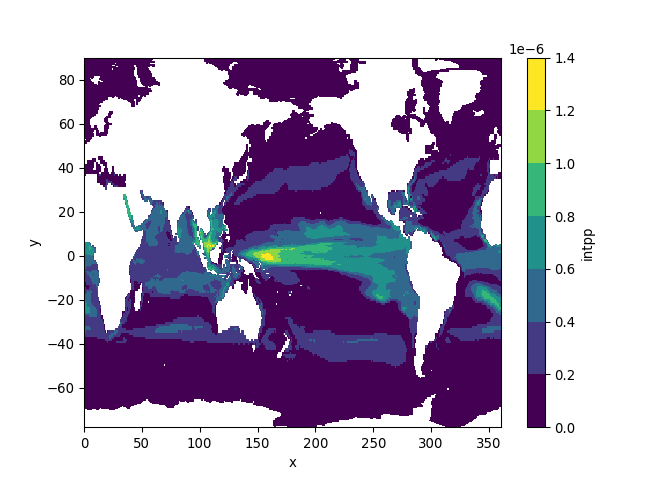
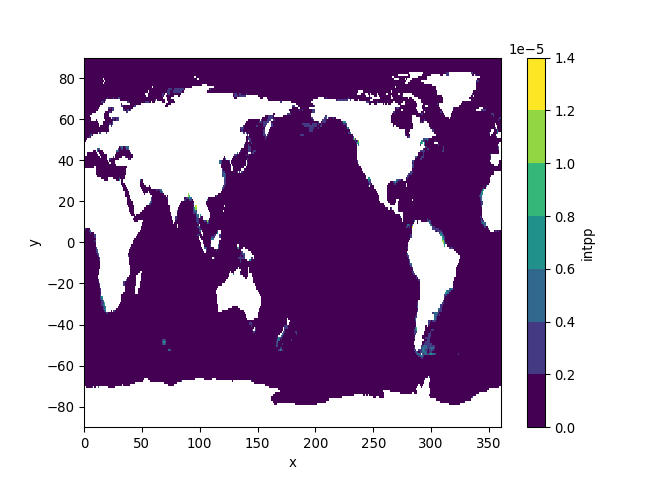
Removing duplicates on script 1. Solving issue on script 2 downloading multiple variables from one model.

diff --git a/Scripts/02_Downloading_CMIP6_data.md b/Scripts/02_Downloading_CMIP6_data.md
@@ -70,7 +70,8 @@ In this step we can use either of the search results. In the example
 below, we will be working with the merged search results.
 
 ``` python
-CMIP6_query = pd.read_csv("../Outputs/results_merged.csv")
+#Load data and ensure there are no duplicates
+CMIP6_query = pd.read_csv("../Outputs/results_merged.csv").drop_duplicates()
 
 CMIP6_query = CMIP6_query.astype({'decade_0_start': 'int32', 'decade_0_end': 'int32',\
 'decade_N_start': 'int32', 'decade_N_end': 'int32'})
@@ -86,9 +87,9 @@ CMIP6_query.head(n = 2)
 
 ### Accessing and saving CMIP6 data
 
-We will now load the CMIP6 data into a temporary file in memory, so we
-can subset it, standardise its variables names and save a local copy. We
-will loop through each item in the search results.
+We will define a new function that will access the CMIP6 data, load into
+memory, extract years of interest and standardise all variable names
+before saving a copy locally.
 
 ``` python
 def download_CMIP6(df):
@@ -134,11 +135,17 @@ def download_CMIP6(df):
   ds_sub.to_netcdf(out_file)
 ```
 
+We will loop through each item in the search results.
+
 ``` python
-#Starting loop
+#Starting loop through each model
 for mod in np.unique(CMIP6_query['source_id']):
+  print(mod)
   mod_id = CMIP6_query[CMIP6_query['source_id'] == mod].reset_index()
-  download_CMIP6(mod_id)
+  #Group by variable name, experiment ID and grid type before starting data download
+  for names, sub in mod_id.groupby(['experiment_id', 'grid_label', 'variable_id']):
+    print(sub[['experiment_id', 'grid_label', 'variable_id']])
+    download_CMIP6(sub.reset_index())
 ```
 
 ### Checking subsetted data
@@ -148,40 +155,39 @@ its contents.
 
 ``` python
 #Loading last dataset saved locally
-ds = xr.open_dataset(CMIP6_query['out_path'][0])
+ds = xr.open_dataset(CMIP6_query['out_path'][52])
 #Checking contents
 ds
 ```
 
     ## <xarray.Dataset>
-    ## Dimensions:      (time: 240, bnds: 2, y: 300, x: 360, vertex: 4)
+    ## Dimensions:      (y: 180, x: 360, time: 192, bnds: 2)
     ## Coordinates:
-    ##   * time         (time) datetime64[ns] 1850-01-16T12:00:00 ... 2014-12-16T12:...
-    ##   * y            (y) float64 -77.88 -77.63 -77.38 -77.13 ... 88.87 89.31 89.75
+    ##   * y            (y) float64 -89.5 -88.5 -87.5 -86.5 ... 86.5 87.5 88.5 89.5
     ##   * x            (x) float64 0.5 1.5 2.5 3.5 4.5 ... 356.5 357.5 358.5 359.5
+    ##   * time         (time) object 2015-01-16 12:00:00 ... 2100-12-16 12:00:00
     ##   * bnds         (bnds) int64 0 1
-    ##   * vertex       (vertex) int64 0 1 2 3
+    ##     lon          (x, y) float64 ...
+    ##     lat          (x, y) float64 ...
     ## Data variables:
-    ##     time_bounds  (time, bnds) datetime64[ns] ...
-    ##     lat          (time, y, x) float64 ...
-    ##     lon          (time, y, x) float64 ...
-    ##     lat_bounds   (time, y, x, vertex) float64 ...
-    ##     lon_bounds   (time, y, x, vertex) float64 ...
     ##     intpp        (time, y, x) float32 ...
-    ## Attributes: (12/47)
-    ##     Conventions:            CF-1.7 CMIP-6.2
-    ##     activity_id:            CMIP
+    ##     lat_bounds   (time, y, bnds) float64 ...
+    ##     lon_bounds   (time, x, bnds) float64 ...
+    ##     time_bounds  (time, bnds) object ...
+    ## Attributes: (12/46)
+    ##     title:                  NOAA GFDL GFDL-CM4 model output prepared for CMIP...
+    ##     history:                File was processed by fremetar (GFDL analog of CM...
+    ##     external_variables:     areacello
+    ##     table_id:               Omon
+    ##     activity_id:            ScenarioMIP
     ##     branch_method:          standard
-    ##     branch_time_in_child:   0.0
-    ##     branch_time_in_parent:  21915.0
-    ##     creation_date:          2019-11-15T16:14:52Z
     ##     ...                     ...
     ##     variable_id:            intpp
+    ##     variant_info:           N/A
+    ##     references:             see further_info_url attribute
     ##     variant_label:          r1i1p1f1
-    ##     version:                v20191115
-    ##     cmor_version:           3.4.0
-    ##     tracking_id:            hdl:21.14100/44046366-ac50-4be5-bf42-e1be7c65e37e
-    ##     license:                CMIP6 model data produced by CSIRO is licensed un...
+    ##     branch_time_in_parent:  60225.0
+    ##     parent_time_units:      days since 1850-1-1
 
 ### Plotting results
 
@@ -190,9 +196,9 @@ interest and plot these results.
 
 ``` python
 #Selecting the first decade
-ds = ds.sel(time = str(CMIP6_query['decade_0_start'][0]))
+ds = ds.sel(time = str(CMIP6_query['decade_0_start'][52]))
 #Calculating monthly means and plotting only the first month
-ds[CMIP6_query['variable_id'][0]].mean('time').plot(levels = 9)
+ds[CMIP6_query['variable_id'][52]].mean('time').plot(levels = 9)
 #Show plot
 matplotlib.pyplot.show()
 #Close plot if needed

diff --git a/Scripts/01_Querying_CMIP6_database.md b/Scripts/01_Querying_CMIP6_database.md
@@ -337,6 +337,8 @@ locally.
 ``` r
 results_query %>% 
   bind_rows(results_query_intpp) %>% 
+  #Ensure any duplicate rows are removed before saving results
+  distinct() %>% 
   write_csv("../Outputs/results_merged.csv")
 ```
 
